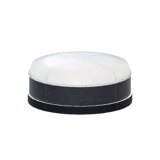
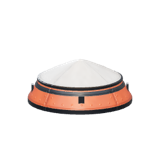
docs(plan-278): complete

Changed region(s): [[0.1562, 0.3125, 0.8438, 0.7188]]

diff --git a/docs/journal/278-pods-probes-and-parachutes.md b/docs/journal/278-pods-probes-and-parachutes.md
@@ -1,0 +1,43 @@
+# 278 — Parachutes that continue the pod, a docking chute ring, an octagonal probe core
+
+**Plan:** [plans/278-pods-probes-and-parachutes.md](../plans/278-pods-probes-and-parachutes.md) · **Session:** part visuals session (Claude), 2026-10-21, after plan 277
+
+## What was done
+
+The owner's complaint was that the parachute was a big box that did not blend into the pod's slanted top, and that a pod could not have a docking port on top as well (ADR 0260).
+
+| Where | What |
+|---|---|
+| `generators/parachute.ts` | **Stack chute:** a short frustum whose wall continues the pod's slope (`params.taper`, default 0.6). It is white with a dark seam and an accent cap, has four clips and a band. The old model was an upright dark drum. **Drogue** (`params.drogue`): the same with a pointed cap. **Radial pack** (`params.radial`): a slim rounded white pack with an accent cap, two straps and a mounting plate. **Docking chute ring** (`params.ring`): 0.625 m joints at both faces, a shoulder over the pod's collar tapering back to the tunnel, and three accent canopy caps |
+| Same file, `canopyDynamic` | Takes `anchors`: one canopy per point. The ring's three canopies are each `canopy / √3` across and lean apart. The lines are turned with a quaternion toward each rim point |
+| `generators/probe.ts` (new) | Probe core: an octagonal prism with gold foil on four faces and white panels on the other four. Two of the panels carry louvres, one a green status lamp and a display strip. A folded whip lies on a foil face. Round joint collars with bolt heads keep the seams (ADR 0212) |
+| `mods/stock/src/parts/recovery.ts` | `stock.parachute-ring` ("OrbitX PR-D16 "Mahkota"", 140 kg, top and bottom 0.625 m nodes, drag of one main) in the Recovery tech node. The chutes are renamed: PR-16 "Kuncup", PR-16R "Kuncup", PR-25 "Kuncup Kecil" (ADR 0255). The drogue gets `drogue: true` |
+| `mods/stock/src/parts/comms.ts` | The probe core is drawn by `probe`, titled OrbitX NA-8 "Oktaf" |
+| Tests | `packages/sim/test/parachute-descent.test.ts`: a docking port on the ring on a pod, dropped at 5 km and 250 m/s, lands under 8 m/s with the port attached and the ring's chute full. `packages/renderer/test/parts-kit.test.ts`: the stack chute's wall slope is within 10 % of the pod cone's, measured by slicing both models' triangles. Stock boot, visuals (the `probe` kind) and part-id snapshot (additions only) |
+
+![The two-stage example's pod with its new chute, in the Hangar](assets/278-pod-and-chute.jpg)
+
+## What surprised me
+
+- **The pod cone is steeper near its collar than on average.** From the drum to the collar it is about 0.54, but its bulge makes it 0.62 just under the collar, where the chute continues it. Slicing the generated triangles gives the true number, so the default taper is 0.6. Vertex sampling did not work: a revolved profile only has vertices at its profile heights.
+- **The pod's dark docking collar still shows** as a thin band between the cone and the chute. Removing it under a chute needs the renderer to know a part's neighbours, so it is left for later (plan Scope Out).
+
+## Decisions made
+
+None new (ADR 0260).
+
+## Open questions / follow-ups
+
+- New pods: plan 300, with built-in chutes on the 3-seat capsule.
+- The pod and the other command parts get OrbitX titles in plan 300.
+
+## Verification output
+
+```
+bun test mods/stock + renderer parts, part-seams, parts-kit, parachute: 188 pass, 0 fail
+bun test packages/sim/test/parachute-descent.test.ts: 2 pass, 0 fail
+bun run typecheck: no errors; prettier (without .claude/launch.json) and web lint: clean
+bun run test: 2107 pass, 0 fail (622 s)
+apps/web CI=true bun run test: Tests 2 failed | 1372 passed; the two known
+  sim-host-script-worker.test.ts failures (STATUS.md, Known issues)
+```

diff --git a/refs/part-visuals-and-blueprints/parts-tracker.md b/refs/part-visuals-and-blueprints/parts-tracker.md
@@ -106,7 +106,7 @@ Nama roket di blueprint juga tiruan (§9). Owner sudah setuju dengan prinsip ini
 | CMD-08 | Cupola | PPD-12 Cupola | stack | kubah berjendela banyak untuk stasiun | P, EVA | 🆕 | P3 |
 | CMD-09 | Kabin penumpang | Mk1 Crew Cabin, Hitchhiker | stack | silinder dengan jendela samping, tanpa kendali | EVA | 🆕 | P2 |
 | CMD-10 | Kursi luar | EAS-1 External Command Seat | radial | kursi terbuka (rover) | EVA | 🆕 | P3 |
-| PRB-01 | Probe core (`probe-core`) | OKTO / HECS | stack | **oktagon** dengan panel foil, lampu status, antena kecil | P (hibernasi) | 🎨 (sekarang tabung) | P1 |
+| PRB-01 ✅ 278 | Probe core (`probe-core`) | OKTO / HECS | stack | **oktagon** dengan panel foil, lampu status, antena kecil | P (hibernasi) | 🎨 (sekarang tabung) | P1 |
 | PRB-02 | Probe bola mini | Stayputnik | stack | bola kecil dengan 4 batang antena (Sputnik) | — | 🆕 | P2 |
 | PRB-03 | Probe kubus | QBE | stack/radial | kubus kecil berpanel | — | 🆕 | P3 |
 | PRB-04 | Probe 2,5 m | RC-L01 | stack | cincin lebar bersirip elektronik | — | 🆕 | P2 |
@@ -199,10 +199,10 @@ Logika sim RCS sudah ada (`ModuleRcs`, plan 211). Konfigurasinya per nozzle (`no
 | AER-02 | Fin, control surface, wing | fins, elevons, wings | sudah benar | E, P | ✅ | — |
 | AER-03 | Grid fin | GRFN-125/250 [KSP2] | kisi persegi yang melipat | P, A, AG | 🆕 | P2 (gaya Falcon, LES Soyuz) |
 | AER-04 | Airbrake | Airbrake | panel yang membuka | P, AG, A | 🆕 | P3 |
-| REC-01 | **Parasut puncak pod** (`parachute`) | Mk16 Parachute | **kerucut terpotong yang meneruskan kemiringan pod** (bukan kaleng tegak), tutup dua warna di puncak, alas pas dengan collar 0,625 m. Sekarang tabung tegak 0,32 m di atas collar, sehingga tampak seperti kotak (§5.1) | S, P (deploy, cut, set ketinggian/tekanan), A (kanopi) | 🎨 besar | P1 |
+| REC-01 ✅ 278 | **Parasut puncak pod** (`parachute`) | Mk16 Parachute | **kerucut terpotong yang meneruskan kemiringan pod** (bukan kaleng tegak), tutup dua warna di puncak, alas pas dengan collar 0,625 m. Sekarang tabung tegak 0,32 m di atas collar, sehingga tampak seperti kotak (§5.1) | S, P (deploy, cut, set ketinggian/tekanan), A (kanopi) | 🎨 besar | P1 |
 | REC-02 | Parasut puncak besar | Mk16-XL | sama untuk collar 1,25 m (pod 3 kursi) | S, P, A | 🆕 | P1 |
-| REC-03 | Drogue (`drogue-chute`) | Mk25 / Mk12-R | kerucut kecil berujung runcing; radial: kotak ramping | S, P, A | 🎨 | P1 |
-| REC-04 | Parasut radial (`radial-parachute`) | Mk2-R / Mk16-R [KSP2] | kotak memanjang **melengkung mengikuti dinding** dengan tutup | S, P, A | 🎨 | P1 |
+| REC-03 ✅ 278 | Drogue (`drogue-chute`) | Mk25 / Mk12-R | kerucut kecil berujung runcing; radial: kotak ramping | S, P, A | 🎨 | P1 |
+| REC-04 ✅ 278 | Parasut radial (`radial-parachute`) | Mk2-R / Mk16-R [KSP2] | kotak memanjang **melengkung mengikuti dinding** dengan tutup | S, P, A | 🎨 | P1 |
 | REC-05 | Parasut tertanam di pod | (Apollo: 3 parasut di bawah tutup pod) | ruang di puncak pod 3 kursi, tutup terlontar | ikut pod | 🆕 | P2 |
 | REC-06 | Flotation collar (`flotation-collar`) | — | cincin karet menggembung | P, A | 🎨 | P3 |
 | THR-01 | Heat shield (`heat-shield*`) | heat shields 0,625–3,75 m | piring ablatif dengan tepi logam, bisa dilepas | S, P (lepas) | 🎨 kecil; 1,875/3,75/5 m ✅ (plan 289) | P1 |

diff --git a/docs/plans/278-pods-probes-and-parachutes.md b/docs/plans/278-pods-probes-and-parachutes.md
@@ -1,8 +1,8 @@
 ---
 id: 278
 title: "Parachutes and probe cores: a chute that continues the pod, a docking chute ring, slim radial packs, an octagonal probe core"
-status: draft
-owner: ""
+status: done
+owner: "part visuals session (Claude)"
 depends: [291]
 phase: 0
 created: 2026-10-21
@@ -46,21 +46,22 @@ Crew capacity, masses and heat tolerances from the KSP ranges in `refs/reverse-e
 
 ## Acceptance criteria
 
-- [ ] A pod with the docking chute ring and a small docking port on it, dropped at 5 km and 250 m/s, lands under 8 m/s with the port still attached (sim test).
-- [ ] The stack chute's wall continues the pod's cone: its slope is within 10 % of the pod's cone slope near the collar (renderer test on the profiles).
-- [ ] Shape, seam and part-id tests pass with the new part.
-- [ ] `bun run lint`, `bun run typecheck`, `bun run test`, web vitest with `CI=true` and `bun run docs:check` pass (the two known script-thread failures aside).
-- [ ] Icons before and after in the journal.
+- [x] A pod with the docking chute ring and a small docking port on it, dropped at 5 km and 250 m/s, lands under 8 m/s with the port still attached (sim test).
+- [x] The stack chute's wall continues the pod's cone: its slope is within 10 % of the pod's cone slope near the collar (renderer test on the profiles).
+- [x] Shape, seam and part-id tests pass with the new part.
+- [x] `bun run lint`, `bun run typecheck`, `bun run test`, web vitest with `CI=true` and `bun run docs:check` pass (the two known script-thread failures aside).
+- [x] Icons before and after in the journal.
 
 ## Docs checklist
 
-- [ ] `docs/STATUS.md` updated (board row, next plan, open issues).
-- [ ] `docs/journal/278-pods-probes-and-parachutes.md` written.
-- [ ] Affected `docs/architecture/*.md` updated to match what shipped.
-- [ ] New ADRs written for any decision made here, linked above.
-- [ ] `docs/research/stack-versions.md` updated for anything looked up.
-- [ ] `refs/part-visuals-and-blueprints/parts-tracker.md`: status column of every tracker ID this plan delivers.
+- [x] `docs/STATUS.md` updated (board row, next plan, open issues).
+- [x] `docs/journal/278-pods-probes-and-parachutes.md` written.
+- [x] Affected docs: none describe the chute or probe models.
+- [x] New ADRs: none (ADR 0260 covers it).
+- [x] `docs/research/stack-versions.md`: nothing looked up.
+- [x] `refs/part-visuals-and-blueprints/parts-tracker.md`: status column of every tracker ID this plan delivers.
 
 ## Log
 
 - 2026-10-21 — Drafted from the part-visuals research and the owner's decisions of 2026-10-21 (CTO calls delegated by the owner). Not to be started until the owner releases the parts work: on 2026-10-21 main is busy with renderer fixes and a UI/UX agent.
+- 2026-10-21 — Done. Default taper 0.6 (the pod cone measures 0.62 near its collar, test). Journal 278.

diff --git a/docs/STATUS.md b/docs/STATUS.md
@@ -223,7 +223,7 @@
 | 275 | [Size classes, part two: new tank shapes, size filter](plans/275-size-classes-to-7-5-m.md) | draft | — | ADR 0256; after 289. |
 | 276 | [Engines, engine plates 5/8/9, segmented SRBs, escape tower](plans/276-engines-plates-srbs-and-escape-tower.md) | draft | — | ADR 0257. |
 | 277 | [RCS family: 4-way remodel, 5-way, linear, corner, bipropellant, axis toggles](plans/277-rcs-family.md) | done | part visuals session | RCS remodel after the RV-105 reference; new 5-way block, pair and linear port; bells drawn at the module\'s nozzles. Journal 277.
-| 278 | [Parachutes and probe cores (chute continues the pod, docking chute ring)](plans/278-pods-probes-and-parachutes.md) | draft | — | ADR 0260. |
+| 278 | [Parachutes and probe cores (chute continues the pod, docking chute ring)](plans/278-pods-probes-and-parachutes.md) | done | part visuals session | Chutes continue the pod's slope; docking chute ring (port on top, three canopies); slim radial pack; octagonal probe core. Journal 278.
 | 279 | [Hangar free placement: move/rotate gizmos, offset (format 4), docking ports anywhere](plans/279-hangar-free-placement-and-surface-mount.md) | draft | — | ADR 0258. |
 | 280 | [Power, comms, science, life support: surface-mount shapes, deploy, fuel cell](plans/280-power-comms-science-life-support.md) | draft | — | ADR 0259. |
 | 281 | [Payload bays with doors, petals, multi-couplers, trusses, lattice interstage](plans/281-payload-bays-couplers-and-structure.md) | draft | — | ADR 0261. |
@@ -313,6 +313,7 @@ Existing drafts realigned on 2026-10-17: 063 (runway building), 065, 066, 067, 0
 
 ## Recent journal entries
 
+- [278 — Parachutes that continue the pod, a docking chute ring, an octagonal probe core](journal/278-pods-probes-and-parachutes.md)
 - [277 — The RCS family](journal/277-rcs-family.md)
 - [291 — Part detail kit, liveries and honest catalogue icons](journal/291-part-detail-kit-livery-and-icons.md)
 - [294 — A compact performance overlay](journal/294-performance-overlay.md)
